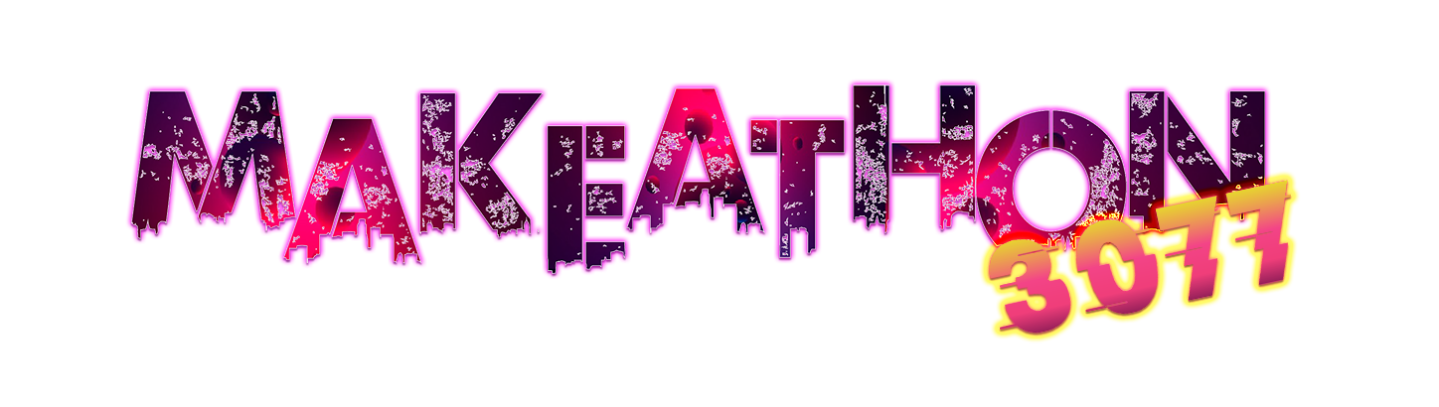
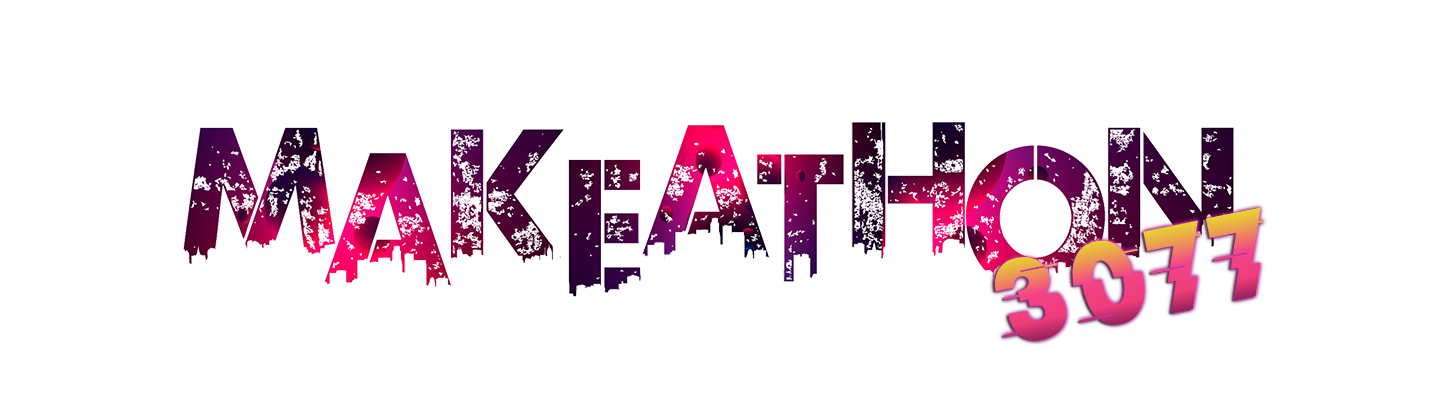
added headings

Changed region(s): [[0.0612, 0.1769, 0.9173, 0.855]]

diff --git a/README.md b/README.md
@@ -1,6 +1,8 @@
 # MAKEATHON
 
-![Makeathon logo](./assets/logo_web.png "MAKEATHON 3077")
+![Makeathon logo](./assets/makeathon3077.png "MAKEATHON 3077")
+
+## Index
 
 ## About MAKEATHON
 
@@ -13,4 +15,19 @@
 </p>
 
 **Microsoft Learn Student Chapter** is a technical society that is dedicated to elevate the coding culture of Thapar Institute of Engineering and Technology by mentoring and motivating its students to refine their critical thinking, logical reasoning, and coding skills. MLSC was formed with the objective of providing students a dynamic platform that feeds their curiosity and develops their technical skills. MLSC aims to create a community of versatile enthusiasts with a progressive mindset, promoting development holistically which includes injecting soft skills as well. MLSC effectuates it by organizing numerous technology-driven events including **Tech Meetups**,  **Hackathons** and promoting team building.
+
+
+## Features
+
+
+## Tech
+
+
+## LICENSE
+
+
+## Authors
+
+
+## Contributors
 
